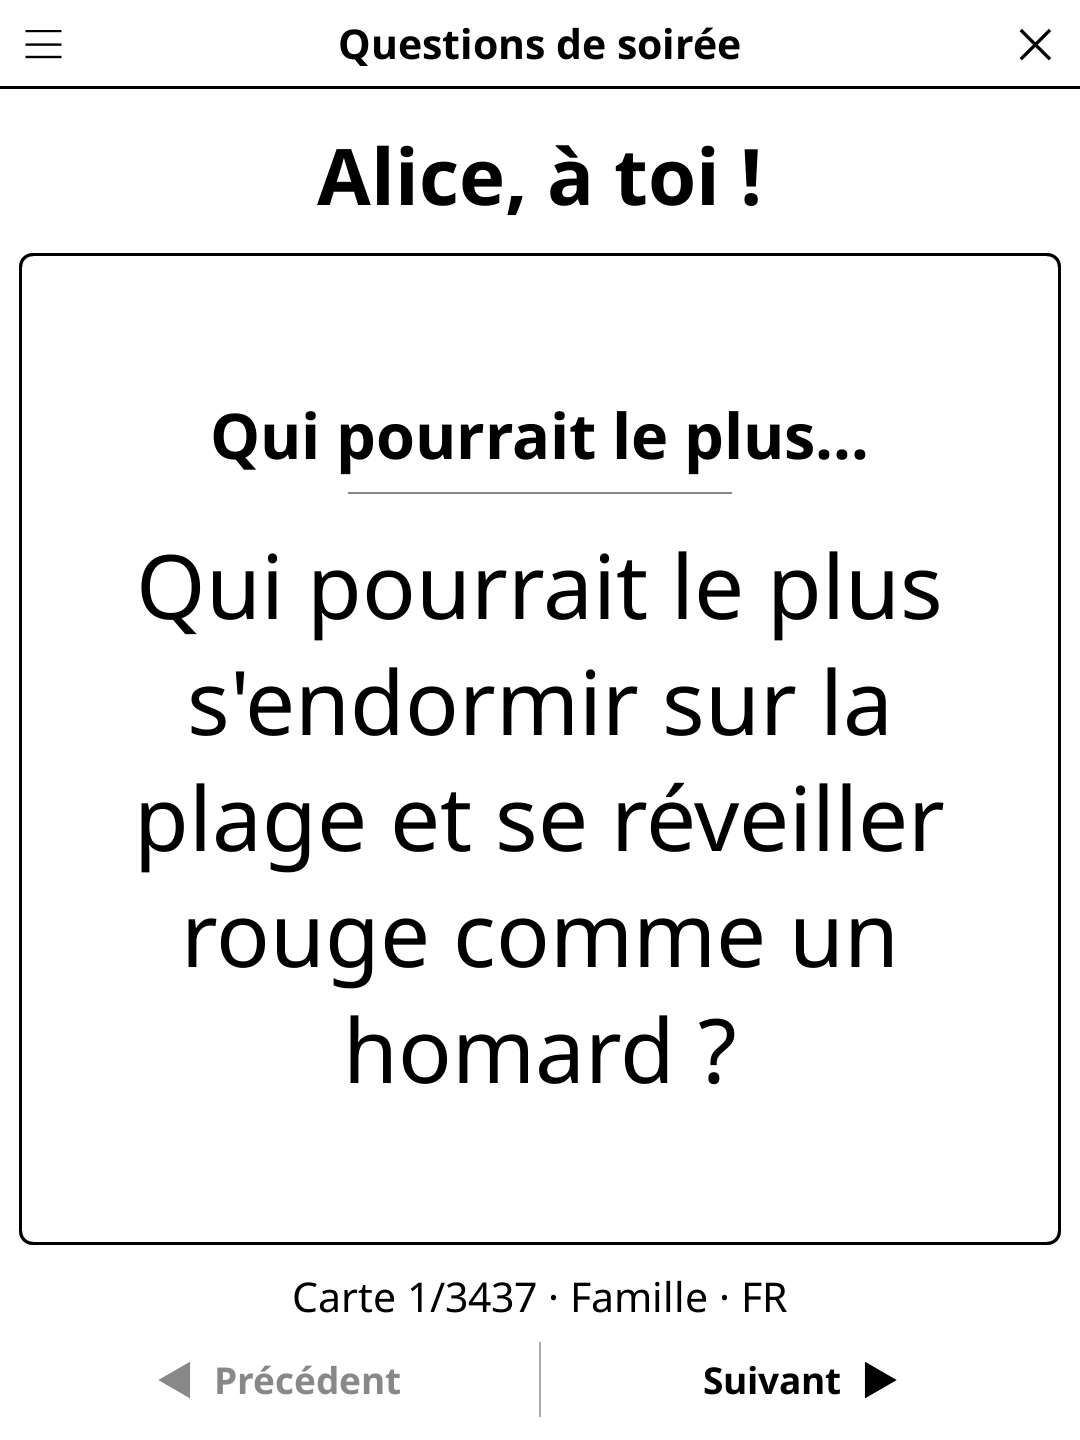
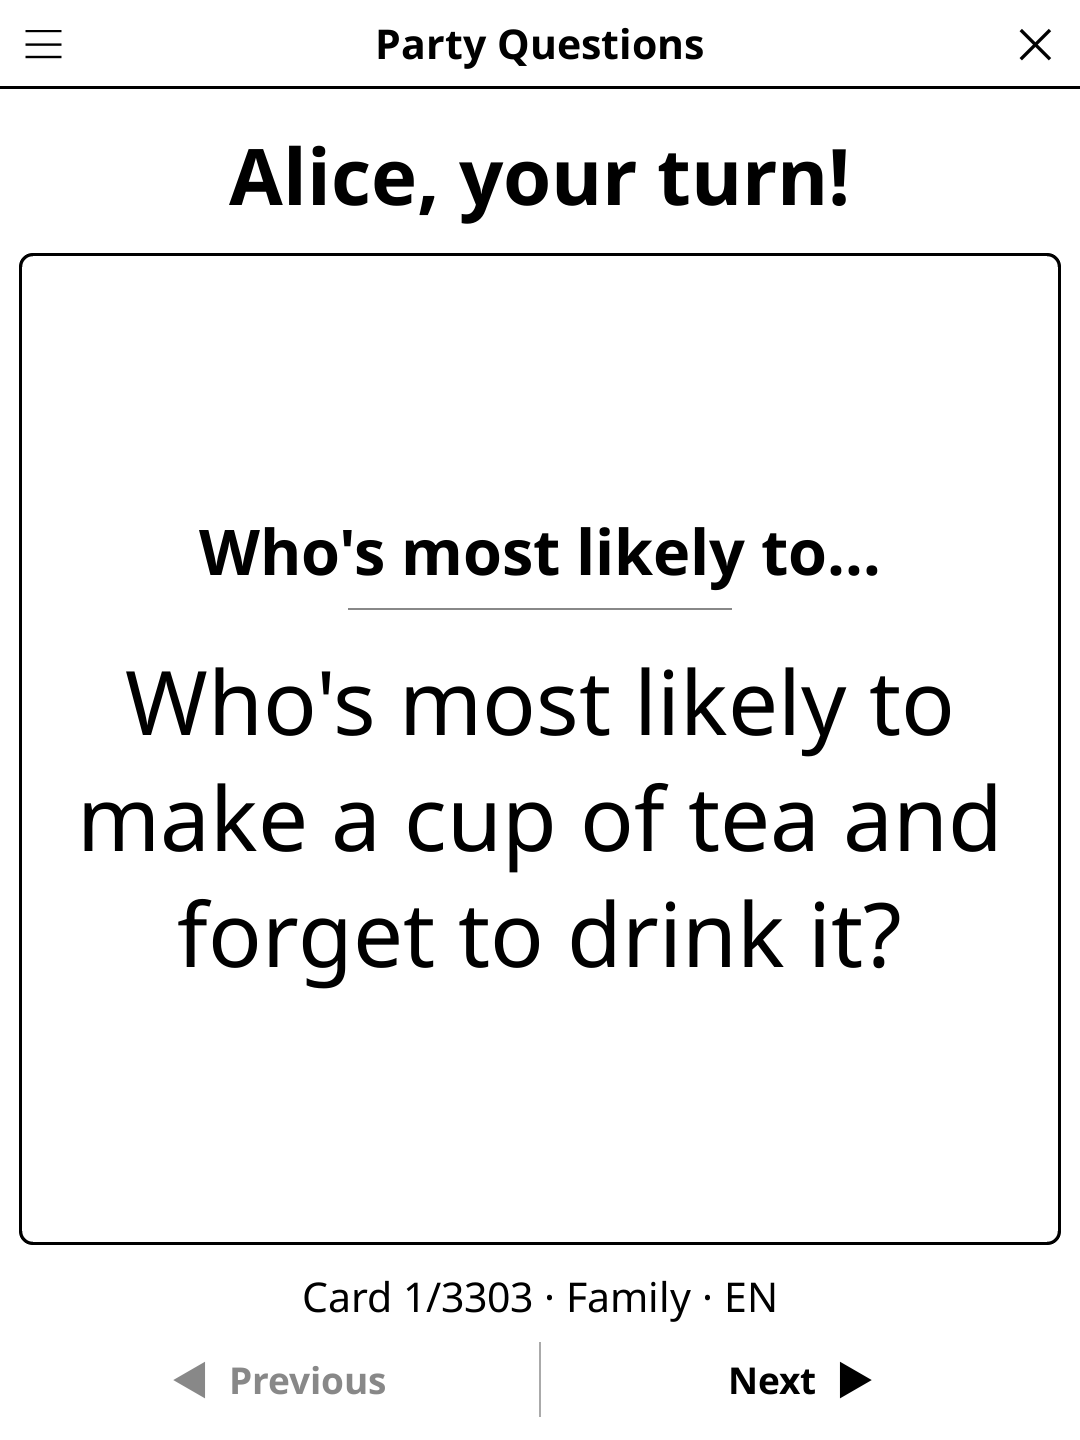
release: 1.0.11 -- Picks up game-common 1.20.0: a deferred action (timer tick, computer's
See CHANGELOG.md.

diff --git a/CHANGELOG.md b/CHANGELOG.md
@@ -1,5 +1,14 @@
 # Changelog
 
+## [1.0.11] - 2026-11-24
+
+### Changed
+- Picks up game-common 1.20.0: a deferred action (timer tick, computer's
+  move, card flip) no longer runs once the game is closed or a new game has
+  started, and the game is saved a few seconds after a move instead of after
+  every one, and at once on close, suspend or power-off.
+- The README screenshot shows the game in English.
+
 ## [1.0.10] - 2026-11-24
 
 ### Changed
